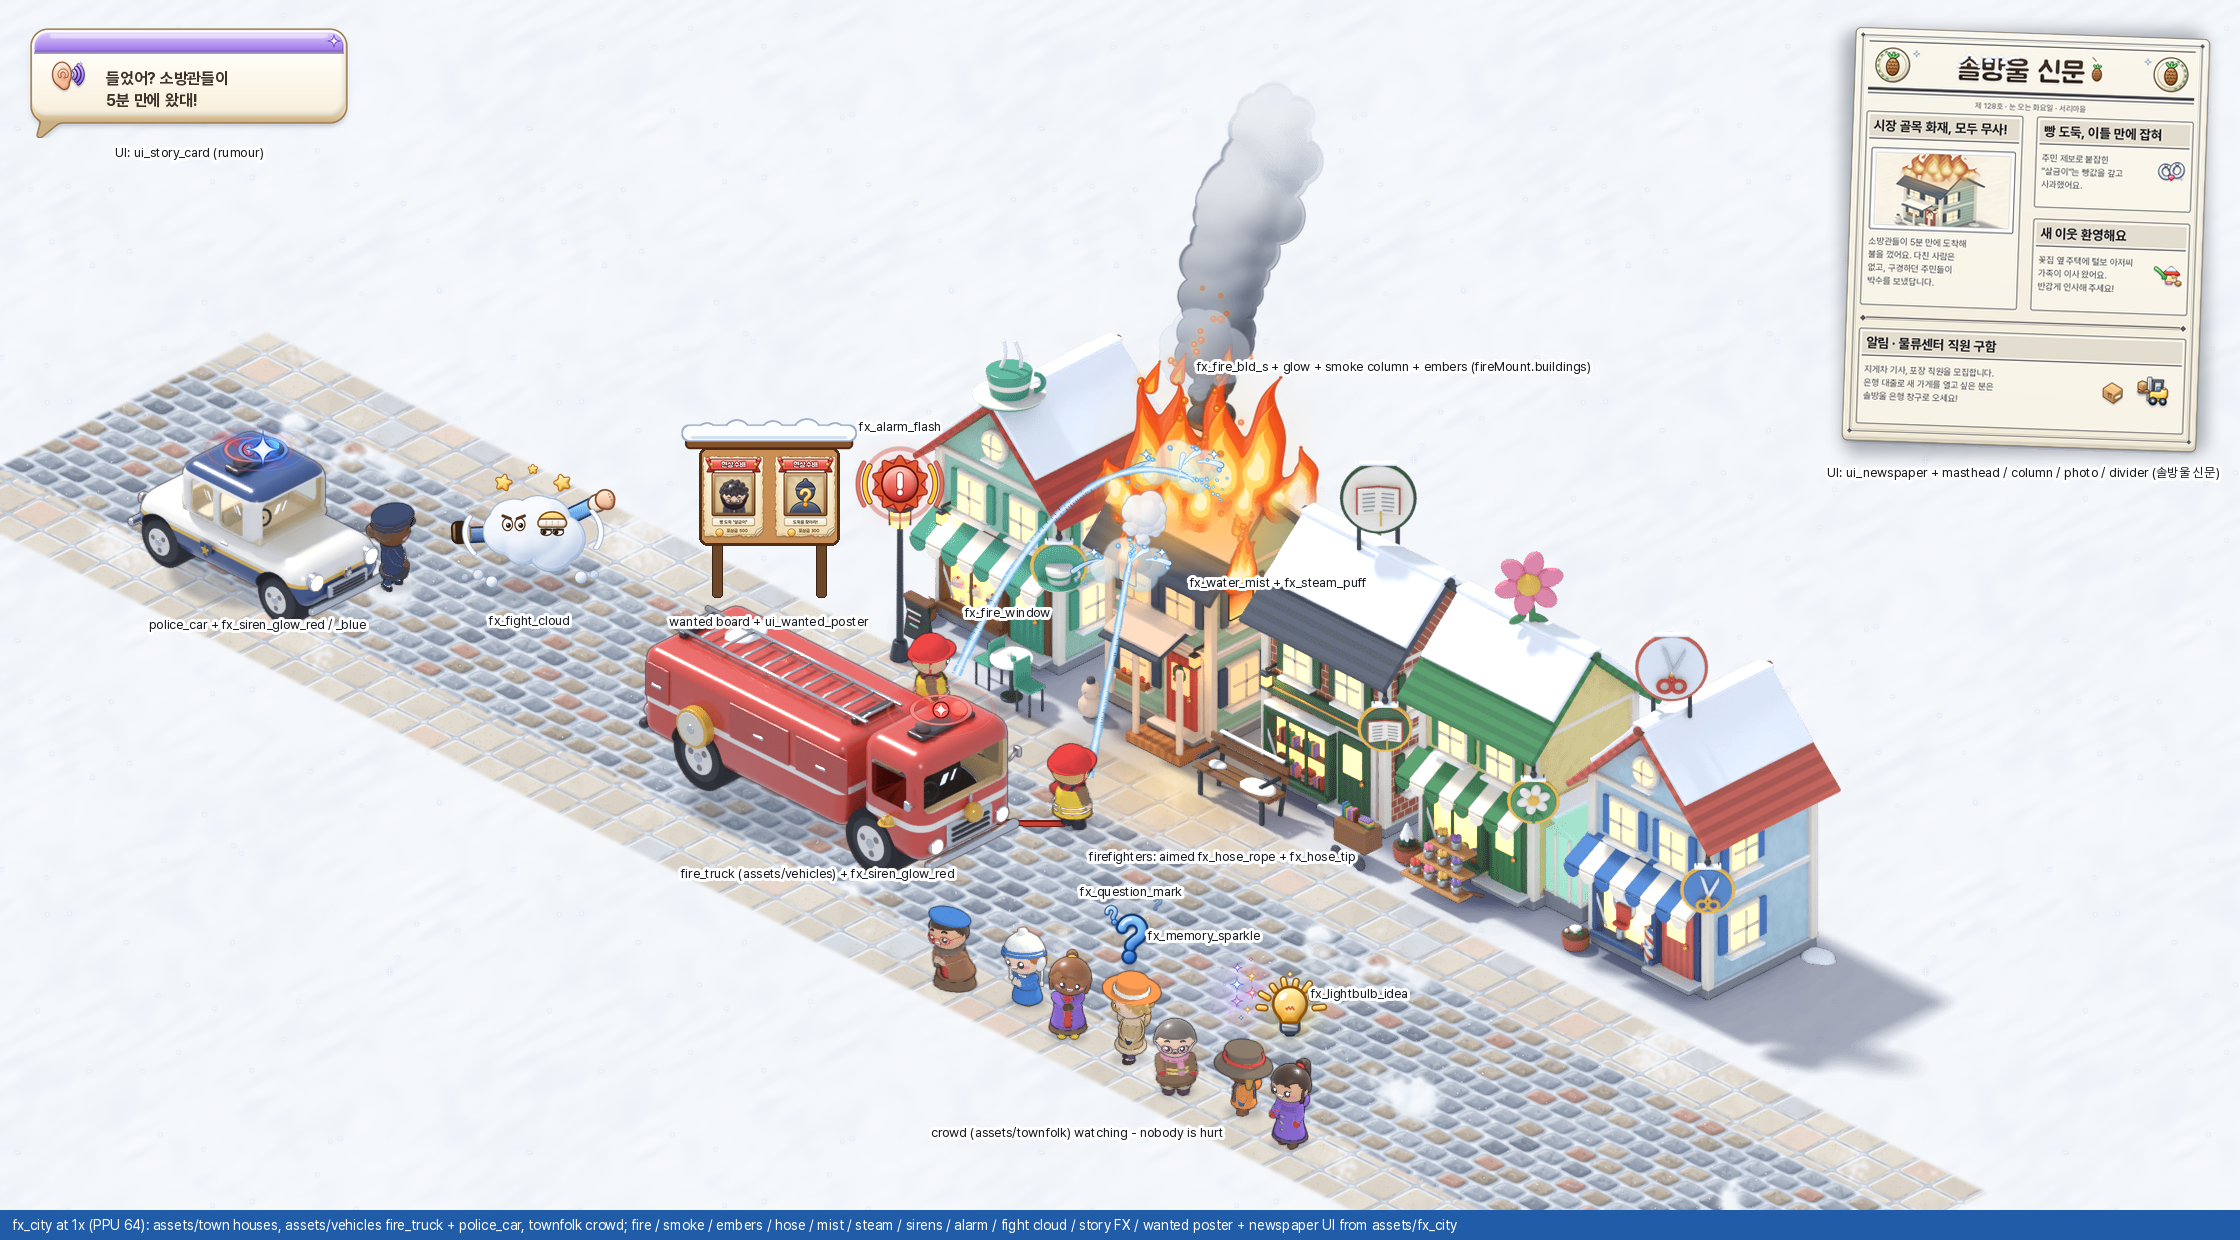
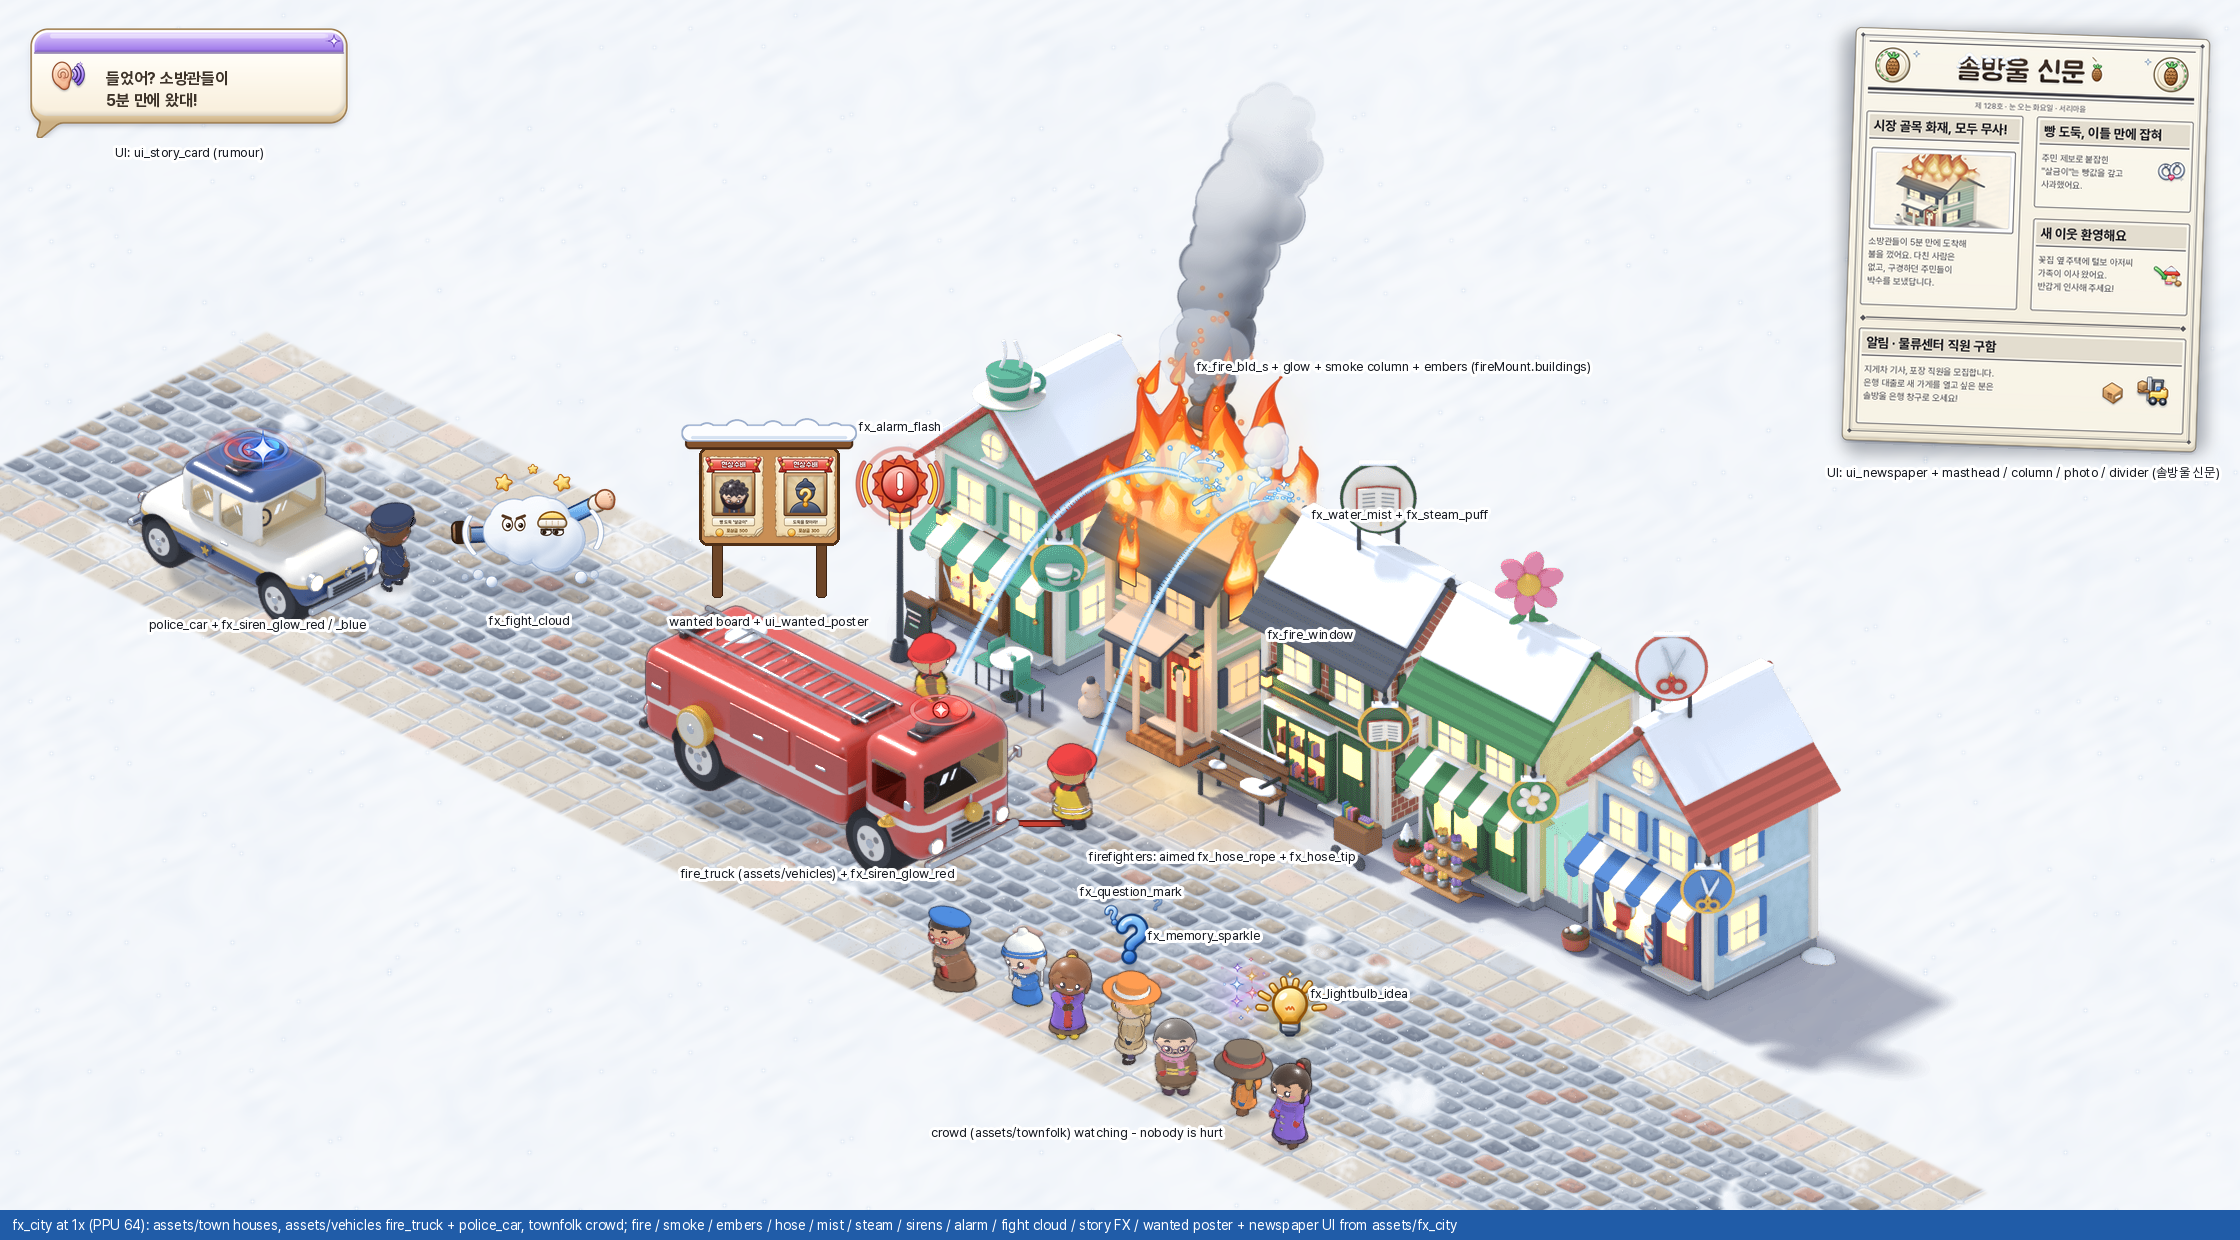
Frost Village: work in progress (v4, title, story, beach, fx)
Claude-Session: https://claude.ai/code/session_013Tw35UF4PB1GXz6AR9E9kG

Changed region(s): [[0.4688, 0.3371, 0.6562, 0.6129], [0.4375, 0.4903, 0.4688, 0.521]]

diff --git a/frost-village/tools/fx/gen_fx_city_scene.py b/frost-village/tools/fx/gen_fx_city_scene.py
@@ -379,7 +379,8 @@ def main(out=None, W=2240, H=1240, frame=5):
     add(hp[1] + 3, lambda: put(canvas, fire[frame % 12], fpos, fa, scale=fsc))
     add(hp[1] + 4, lambda: put(canvas, emb[frame % 16], hp + mt['embers'], ea))
     labels.append((fpos + [190, -150], 'fx_fire_bld_s + glow + smoke column + embers (fireMount.buildings)'))
-    labels.append((hp + [mt['windows'][0][0] - 120, mt['windows'][0][1] + 40], 'fx_fire_window'))
+    wl = max(mt['windows'], key=lambda w: w[0])
+    labels.append((hp + [wl[0] + 70, wl[1] + 34], 'fx_fire_window'))
     # --- fire truck (vehicles) with the red beacon
     tp = S(0.6, -4.4)
     timg, tanc, tdef = vehicle('fire_truck', 'siren_SE_%d' % (frame % 4))
@@ -398,8 +399,7 @@ def main(out=None, W=2240, H=1240, frame=5):
     mist, ma, _ = sheet_frames('fx_water_mist')
     steam, sta, _ = sheet_frames('fx_steam_puff')
     ffs = [(S(-0.2, -1.3), 'E', 2), (S(3.8, -2.2), 'NE', 5)]
-    wx0, wy0 = mt['windows'][0][:2]
-    targets = [fpos + [-24, -0.3 * fspec['heightPx'] * fsc], hp + [wx0, wy0]]
+    targets = [fpos + [-24, -0.3 * fspec['heightPx'] * fsc], fpos + [46, -12]]
     for k, ((fp, dr, seed), T) in enumerate(zip(ffs, targets)):
         cfp = cityfolk_person('firefighter', seed)
         if cfp:

diff --git a/frost-village/tools/fx/gen_fx_city_preview.py b/frost-village/tools/fx/gen_fx_city_preview.py
@@ -244,8 +244,8 @@ def fight_layers_gif(path, n=12):
         im.alpha_composite(t, (8, 20))
         im.alpha_composite(X.sh_fight_cloud(i, n), (264, 28))
         d = ImageDraw.Draw(im)
-        text(d, (8, 4), 'fightGuide.play: back + residents (fight anim) + front', 12)
-        text(d, (270, 4), 'fightGuide.playSimple: fx_fight_cloud', 12)
+        text(d, (8, 4), 'play: _back + 2 residents + _front', 12)
+        text(d, (280, 4), 'playSimple: fx_fight_cloud', 12)
         frames.append(im)
     F.save_gif(frames, path, 14, panels=('#F4F7FB',))
 

diff --git a/frost-village/tools/blender/ttl_icon.py b/frost-village/tools/blender/ttl_icon.py
@@ -360,7 +360,7 @@ def at(right, away, z=0.0):
 def build_scene():
     rig = build_chief()
     carrier_and_stack(rig)
-    build_dog(at(-0.30, -0.66), bc.DIR_YAW["S"] + 22)
+    build_dog(at(-0.18, -0.56), bc.DIR_YAW["S"] + 22)
     # only the red roof corner of the cabin peeks in at the top left; a few far pines on the bank
     build_house(at(-3.3, 3.1), yaw=-10.0, scale=1.30)
     rnd = random.Random(7)
